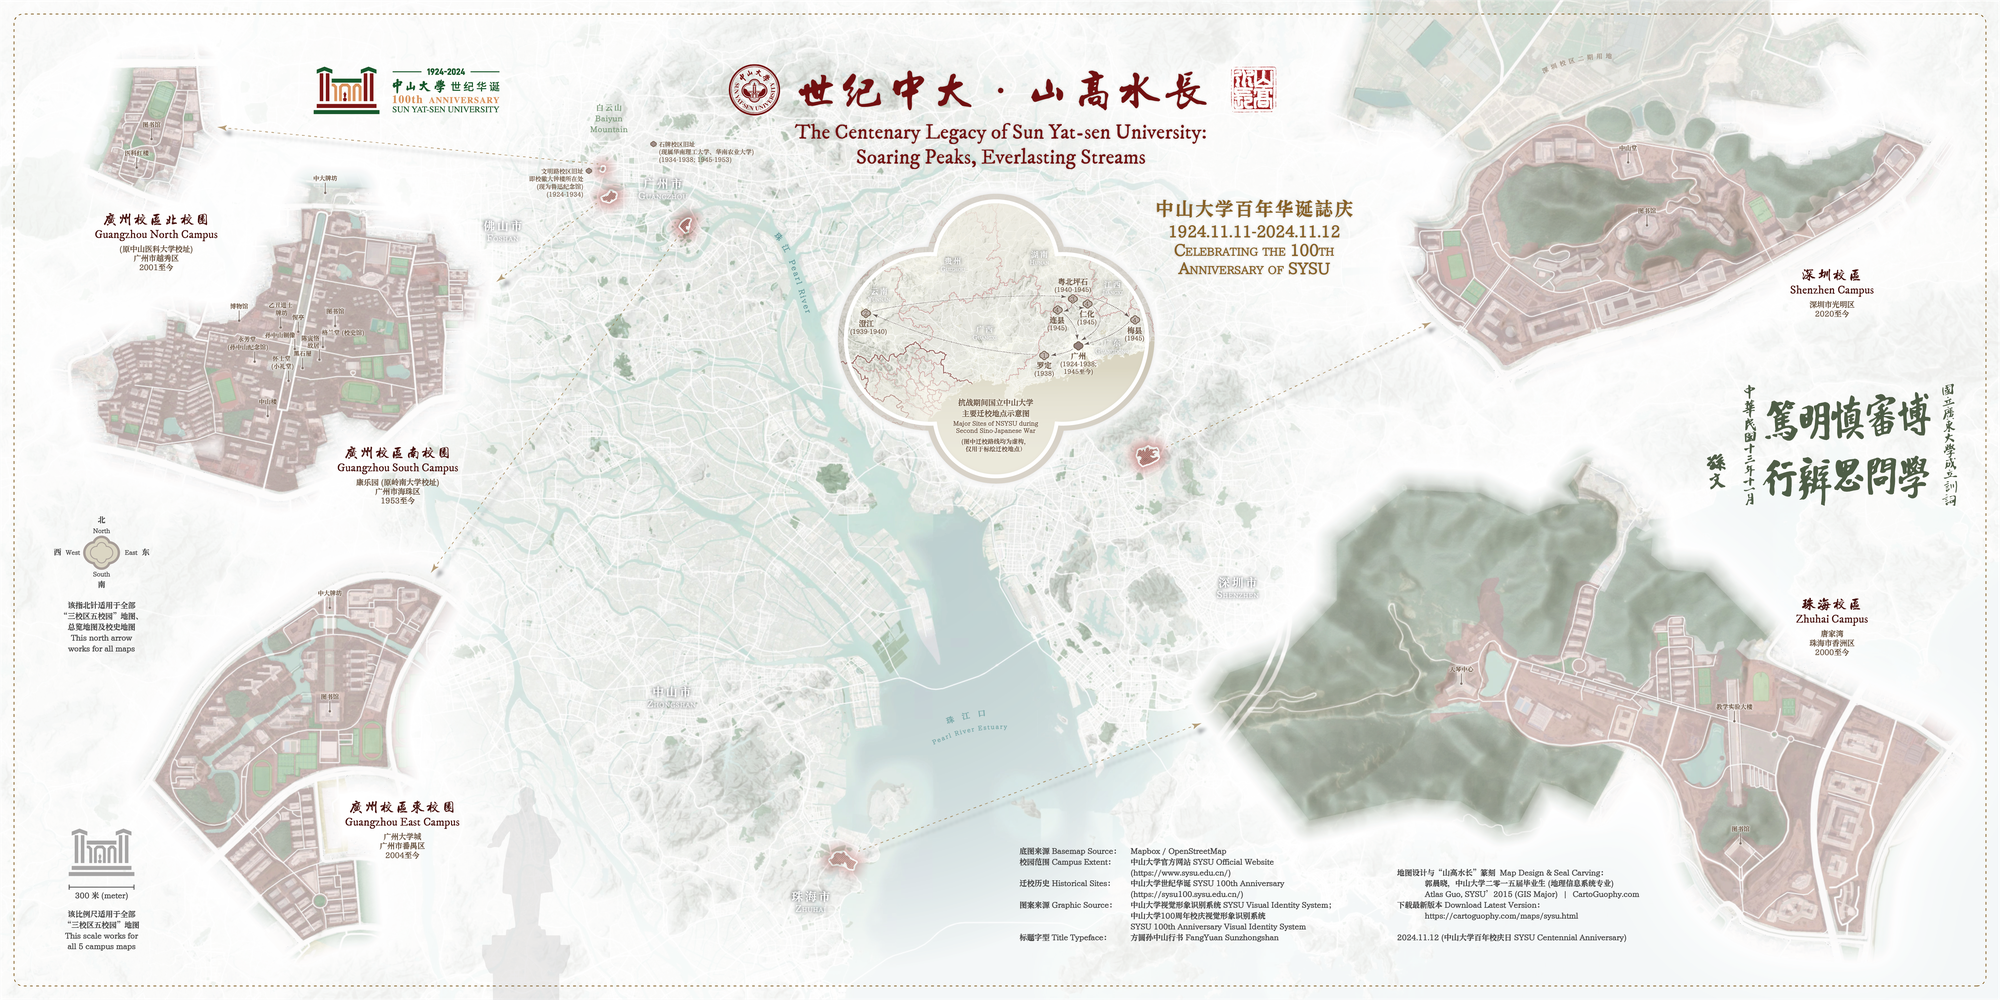
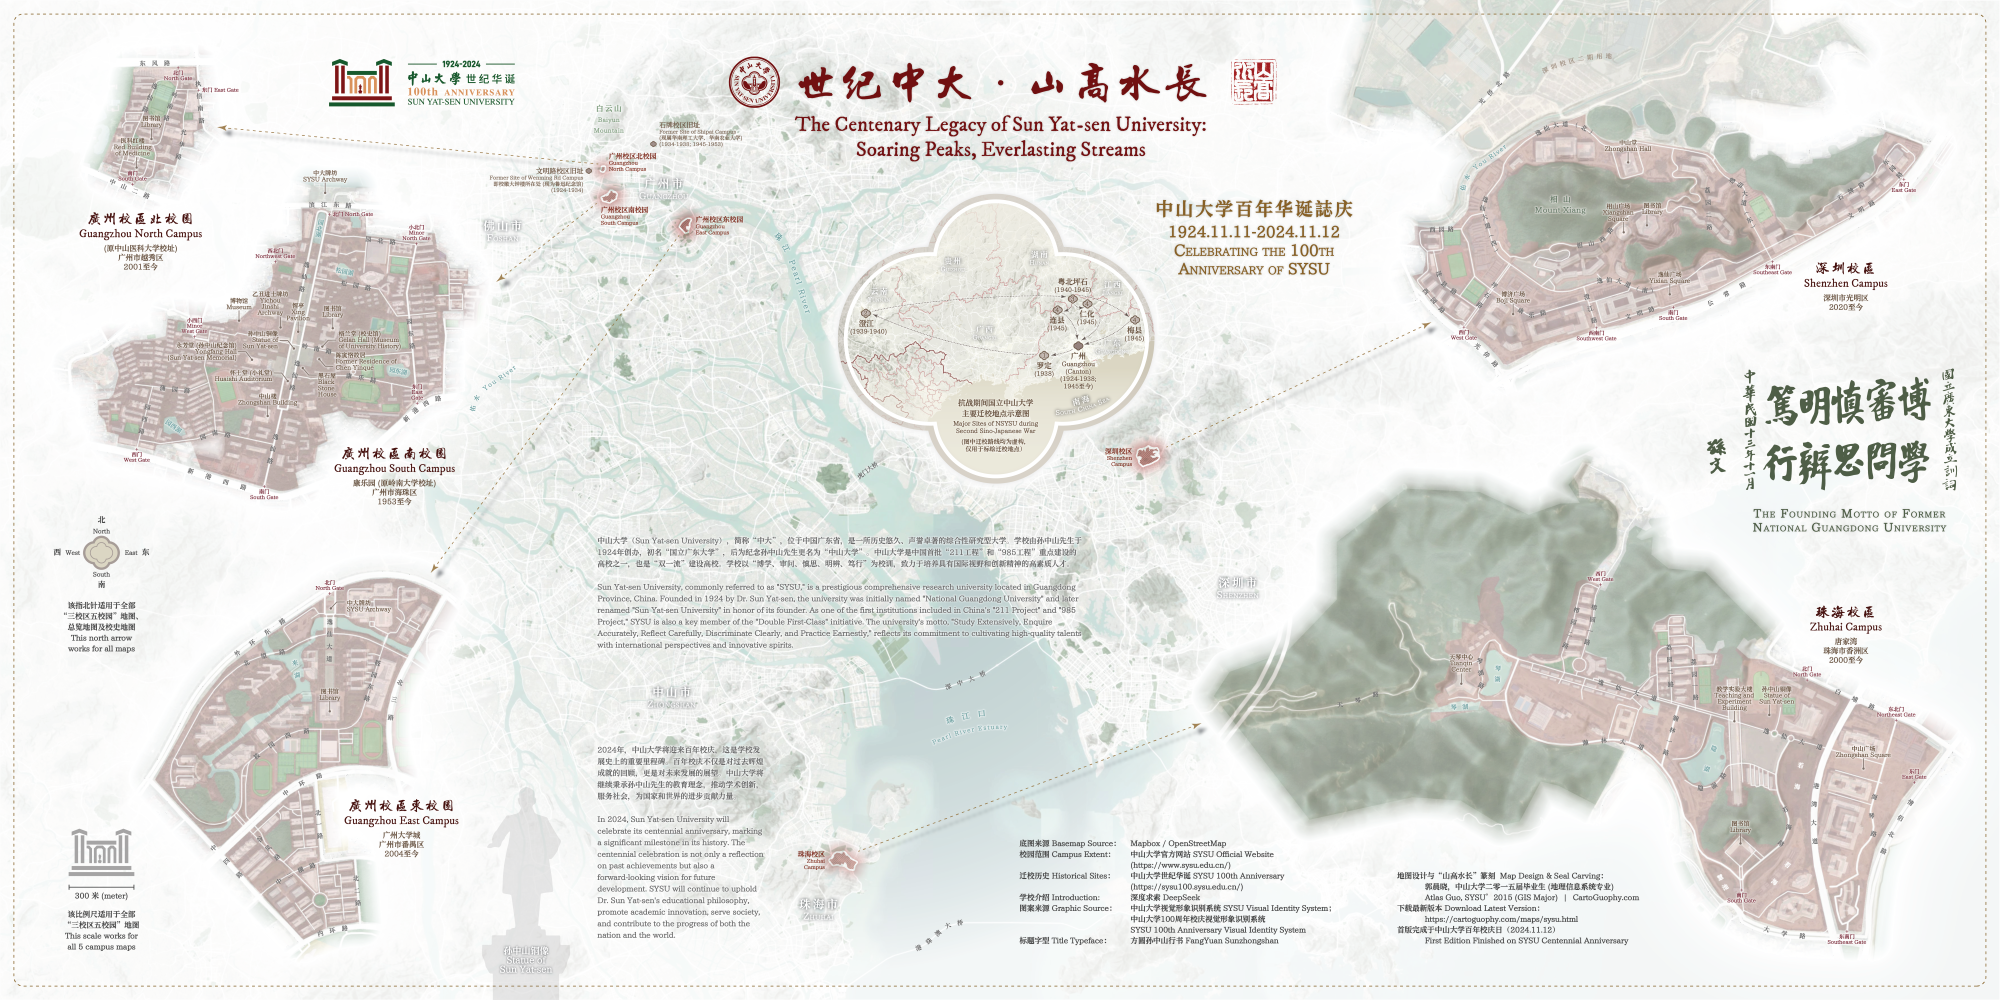
updating sysu map

diff --git a/maps/sysu.html b/maps/sysu.html
@@ -92,14 +92,35 @@
 								<br>
 								<img class="img-fluid d-block mx-auto" src="sysu_screen.png" alt="">
 								<a href="sysu_screen.png" target="_blank">Download Compressed Image<br>下载压缩图片</a><br>
-								<a href="sysu_full.png" target="_blank">Download Full-Size Image<br>下载高清图片</a>
+								<a href="sysu_full.jpg" target="_blank">Download Full-Size Image<br>下载高清图片</a>
 								<br><br>
-								<p>This is a bilingual map of Sun Yat-sen University to celebrate its grand 100th
-									anniversary, including the locations of 5 campuses (among 3 cities in Guangdong
-									Province, China): Guangzhou South, North, and East Campuses, Zhuhai Campus, and
-									Shenzhen Campus. A brief history of the school sites during the second
-									Sino-Japanese War is illustrated. More detailed introduction will be added in the
-									future.
+								<p>
+									This bilingual commemorative map celebrates the 100th anniversary of Sun Yat-sen
+									University, not only showcasing its geographical layout but also weaving in rich
+									historical and cultural elements. It reflects the university’s remarkable
+									century-long journey of growth and achievement.
+									<br><br>
+									The map illustrates the five campuses spanning three cities in Guangdong Province:
+									Guangzhou (South, North, and East Campuses), Zhuhai, and Shenzhen. Key features such
+									as campus gates, main streets, landmarks, and major bodies of water are clearly
+									labeled.
+									<br><br>
+									An inset map, positioned slightly above the center, provides a brief account of the
+									university’s relocation during the Second Sino-Japanese War, highlighting its
+									resilience and commitment to education during turbulent times.
+									<br><br>
+									Designed in an elegant ink-wash style, the map integrates Sun Yat-sen University’s
+									signature colors—dark red and deep green—blending geographical accuracy with the
+									refined aesthetics of traditional Chinese art. The base map was created in Mapbox
+									using data from OpenStreetMap. Additionally, motifs from the university’s emblem,
+									such as the begonia-shaped window design, are subtly incorporated into key elements,
+									including the compass rose, inset map frame, and point symbols.
+									<br><br>
+									As a 2015 GIS graduate of Sun Yat-sen University, I present this map as a heartfelt
+									tribute to my alma mater’s centennial celebration. To further enhance its
+									significance, I have also carved a seal featuring the phrase "Soaring Peaks,
+									Everlasting Streams"—a symbol of the university’s enduring spirit—serving as the
+									finishing touch to this commemorative piece.
 								</p>
 								<iframe height=500 width=100%
 									src="https://www.youtube.com/embed/np1LGoy6JXc?autoplay=0">
